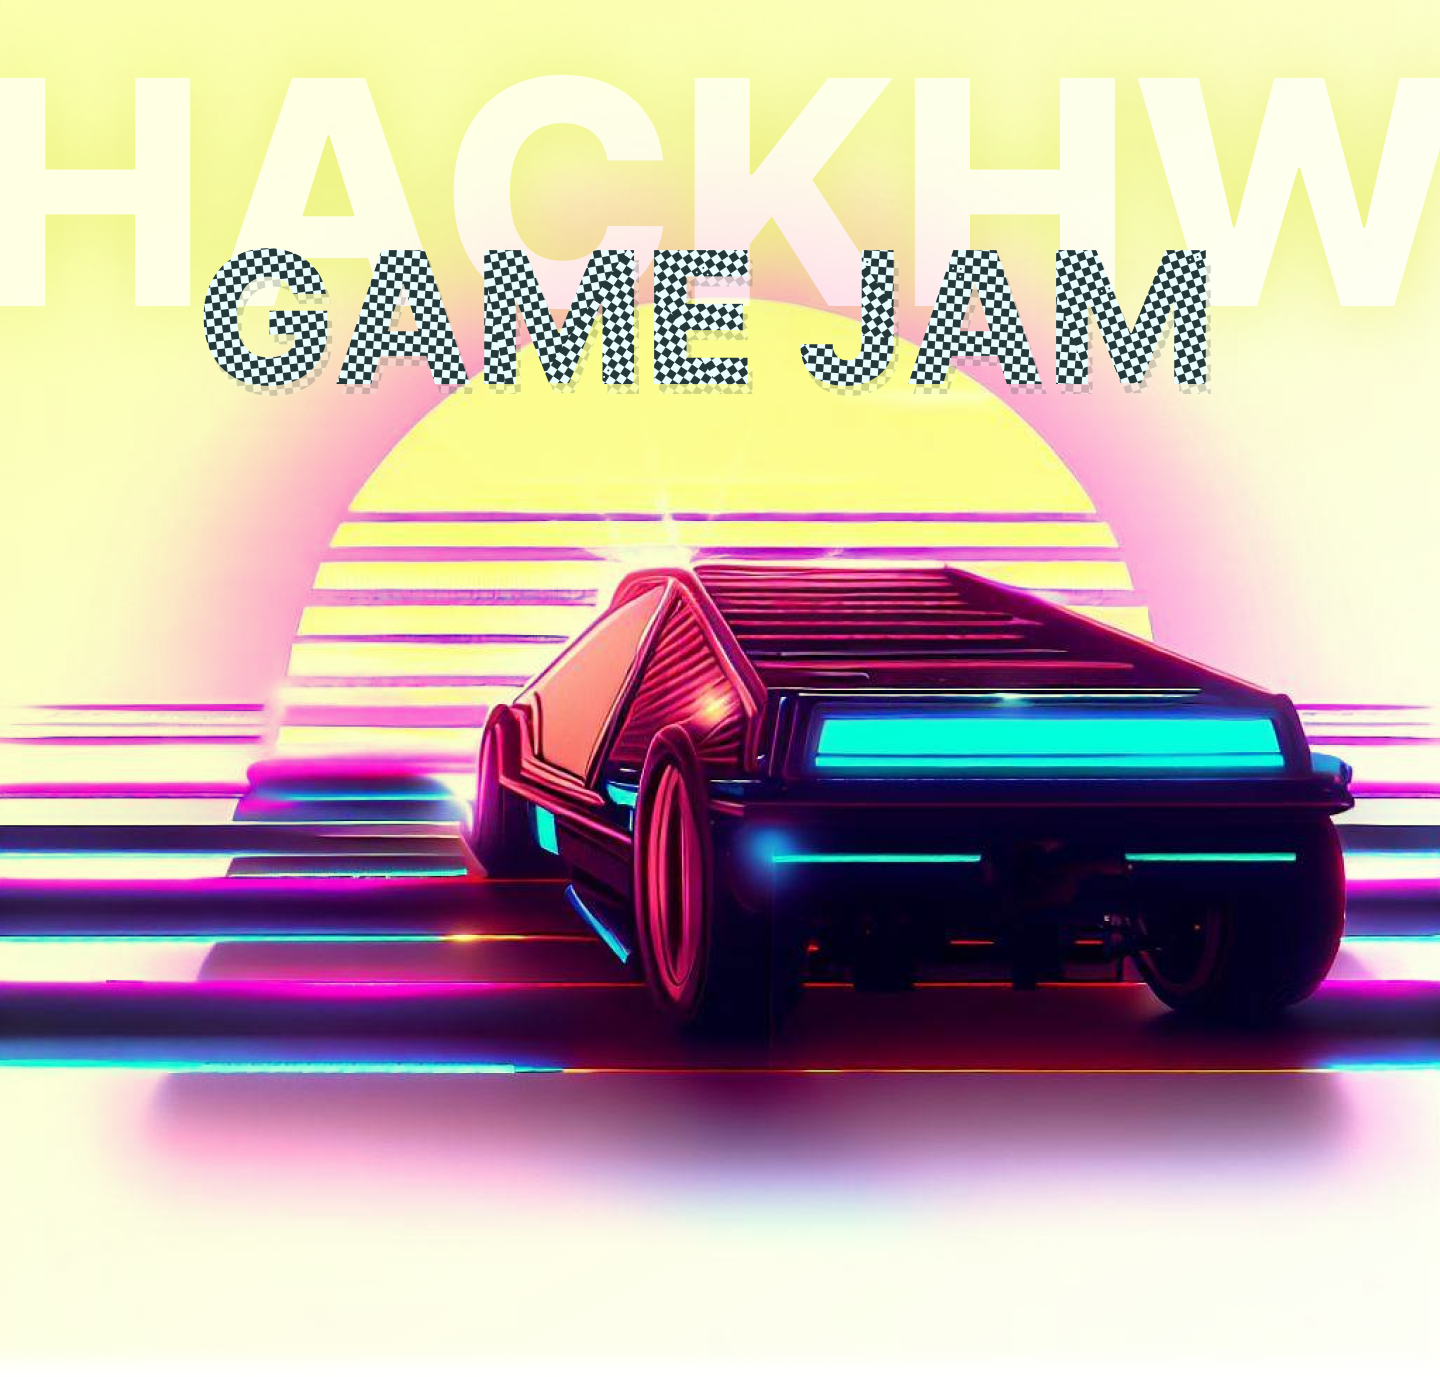
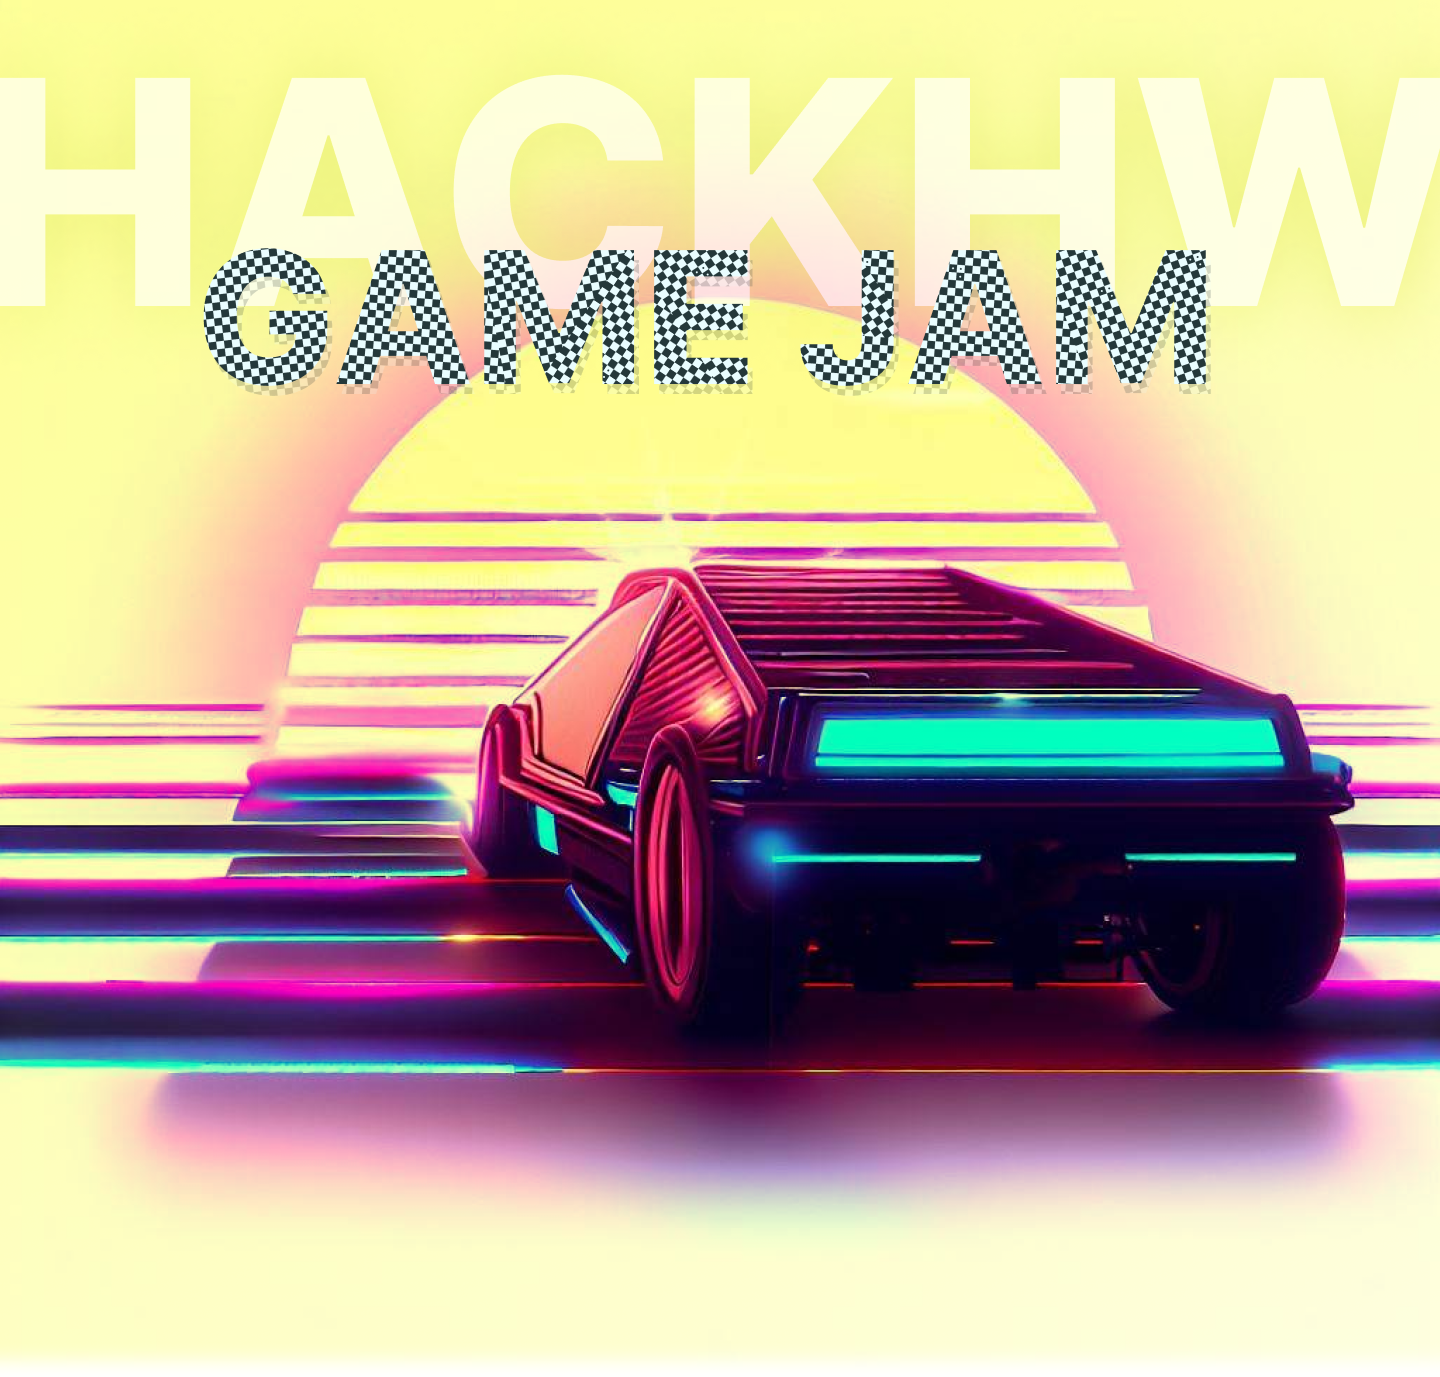
hehe

diff --git a/src/lib/bouncy.svelte b/src/lib/bouncy.svelte
@@ -1,0 +1,145 @@
+<script lang="ts">
+    import { create } from "canvas-confetti";
+    let canvas: HTMLCanvasElement;
+    let canvas2: HTMLCanvasElement;
+    let myConfetti: any;
+    let myConfetti2: any;
+    setTimeout(() => {
+        myConfetti = create(canvas, {
+            resize: true,
+            useWorker: true,
+        });
+        myConfetti2 = create(canvas2, {
+            resize: true,
+            useWorker: true,
+        });
+    });
+</script>
+
+<canvas bind:this={canvas2} />
+<!-- svelte-ignore a11y-click-events-have-key-events -->
+<!-- svelte-ignore a11y-no-noninteractive-element-interactions -->
+<!-- svelte-ignore a11y-no-static-element-interactions -->
+<div
+    class="bouncy"
+    on:click={() => {
+        myConfetti({
+            particleCount: 100,
+            spread: 160,
+            // any other options from the global
+            // confetti function
+        });
+        setTimeout(() => {
+            myConfetti2({
+                particleCount: 100,
+                spread: 160,
+                // any other options from the global
+                // confetti function
+            });
+        }, 1000);
+    }}
+>
+    <canvas bind:this={canvas} />
+    <img src="/stout.jpg" alt="stout" srcset="" />
+    <p>click me!</p>
+</div>
+
+<style>
+    canvas {
+        position: absolute;
+        z-index: 2000;
+
+        width: 100%;
+        height: 100%;
+    }
+    p {
+        background-color: white;
+        position: absolute;
+        top: 20px;
+    }
+    /* vanilla css dvd-style bouncing animation */
+    img {
+        width: 100%;
+        height: 100%;
+    }
+    .bouncy {
+        display: block;
+        position: absolute;
+        width: calc(90px + 10vmin);
+        height: calc(90px + 10vmin);
+        -webkit-animation: moveX 2s linear 0s infinite alternate,
+            moveY 3.4s linear 0s infinite alternate;
+        -moz-animation: moveX 2s linear 0s infinite alternate,
+            moveY 3.4s linear 0s infinite alternate;
+        -o-animation: moveX 2s linear 0s infinite alternate,
+            moveY 3.4s linear 0s infinite alternate;
+        animation: moveX 2s linear 0s infinite alternate,
+            moveY 3.4s linear 0s infinite alternate;
+    }
+
+    @-webkit-keyframes moveX {
+        from {
+            left: 0;
+        }
+        to {
+            left: calc(100vw - (90px + 10vmin));
+        }
+    }
+    @-moz-keyframes moveX {
+        from {
+            left: 0;
+        }
+        to {
+            left: calc(100vw - (90px + 10vmin));
+        }
+    }
+    @-o-keyframes moveX {
+        from {
+            left: 0;
+        }
+        to {
+            left: calc(100vw - (90px + 10vmin));
+        }
+    }
+    @keyframes moveX {
+        from {
+            left: 0;
+        }
+        to {
+            left: calc(100vw - (90px + 10vmin));
+        }
+    }
+
+    @-webkit-keyframes moveY {
+        from {
+            top: 0;
+        }
+        to {
+            top: calc(100vh - (120px + 10vmin));
+        }
+    }
+    @-moz-keyframes moveY {
+        from {
+            top: 0;
+        }
+        to {
+            top: calc(100vh - (120px + 10vmin));
+        }
+    }
+    @-o-keyframes moveY {
+        from {
+            top: 0;
+        }
+        to {
+            top: calc(100vh - (120px + 10vmin));
+        }
+    }
+    @keyframes moveY {
+        from {
+            top: 0;
+        }
+        to {
+            top: calc(100vh - (120px + 10vmin));
+        }
+    }
+</style>

diff --git a/src/routes/+page.svelte b/src/routes/+page.svelte
@@ -1,12 +1,50 @@
 <script lang="ts">
-    
+    import Bouncy from "./../lib/bouncy.svelte";
 </script>
-    
-<img class="bkg" src="/bkg.png" alt="">
-    
+
+<Bouncy />
+<img class="bkg" src="/bkg.png" alt="" />
+<!-- a fixed bottom white bar with black top outline with button to sign up -->
+<div class="bottom-bar">
+    <div class="p-2">
+        <button
+            class="btn"
+            on:click={() => {
+                window.location.href =
+                    "https://bsf8x7mgm2l.typeform.com/to/xOLsX7CJ";
+            }}>RSVP</button
+        >
+    </div>
+</div>
+
 <style>
     .bkg {
         width: 100%;
         max-width: 120vh;
+        box-shadow: inset 0 0 0 2000px rgb(0, 0, 0);
+    }
+    .btn {
+        border-radius: 0;
+        border-color: black;
+        max-height: 10vw;
+        height: 5vh;
+        width: calc(20px + 10vw);
+    }
+    .bottom-bar {
+        position: fixed;
+        padding: 20px;
+        bottom: 20px;
+        width: calc(100% - 80px);
+        left: 20px;
+        max-width: calc(120vh - 80px);
+        border-color: white;
+        display: flex;
+        justify-content: right;
+        align-items: center;
+        /* makes background b&w checkerboard */
+        background: repeating-conic-gradient(#ffffffc9 0% 25%, #233739 0% 50%)
+            50% / 20px 20px;
+
+        z-index: 5000;
     }
 </style>

diff --git a/src/app.html b/src/app.html
@@ -14,6 +14,7 @@
 			font-family: sans-serif;
 			margin: 0;
 			padding: 0;
+			background-color: #fdffbe;
 		}
 	</style>
 </html>
